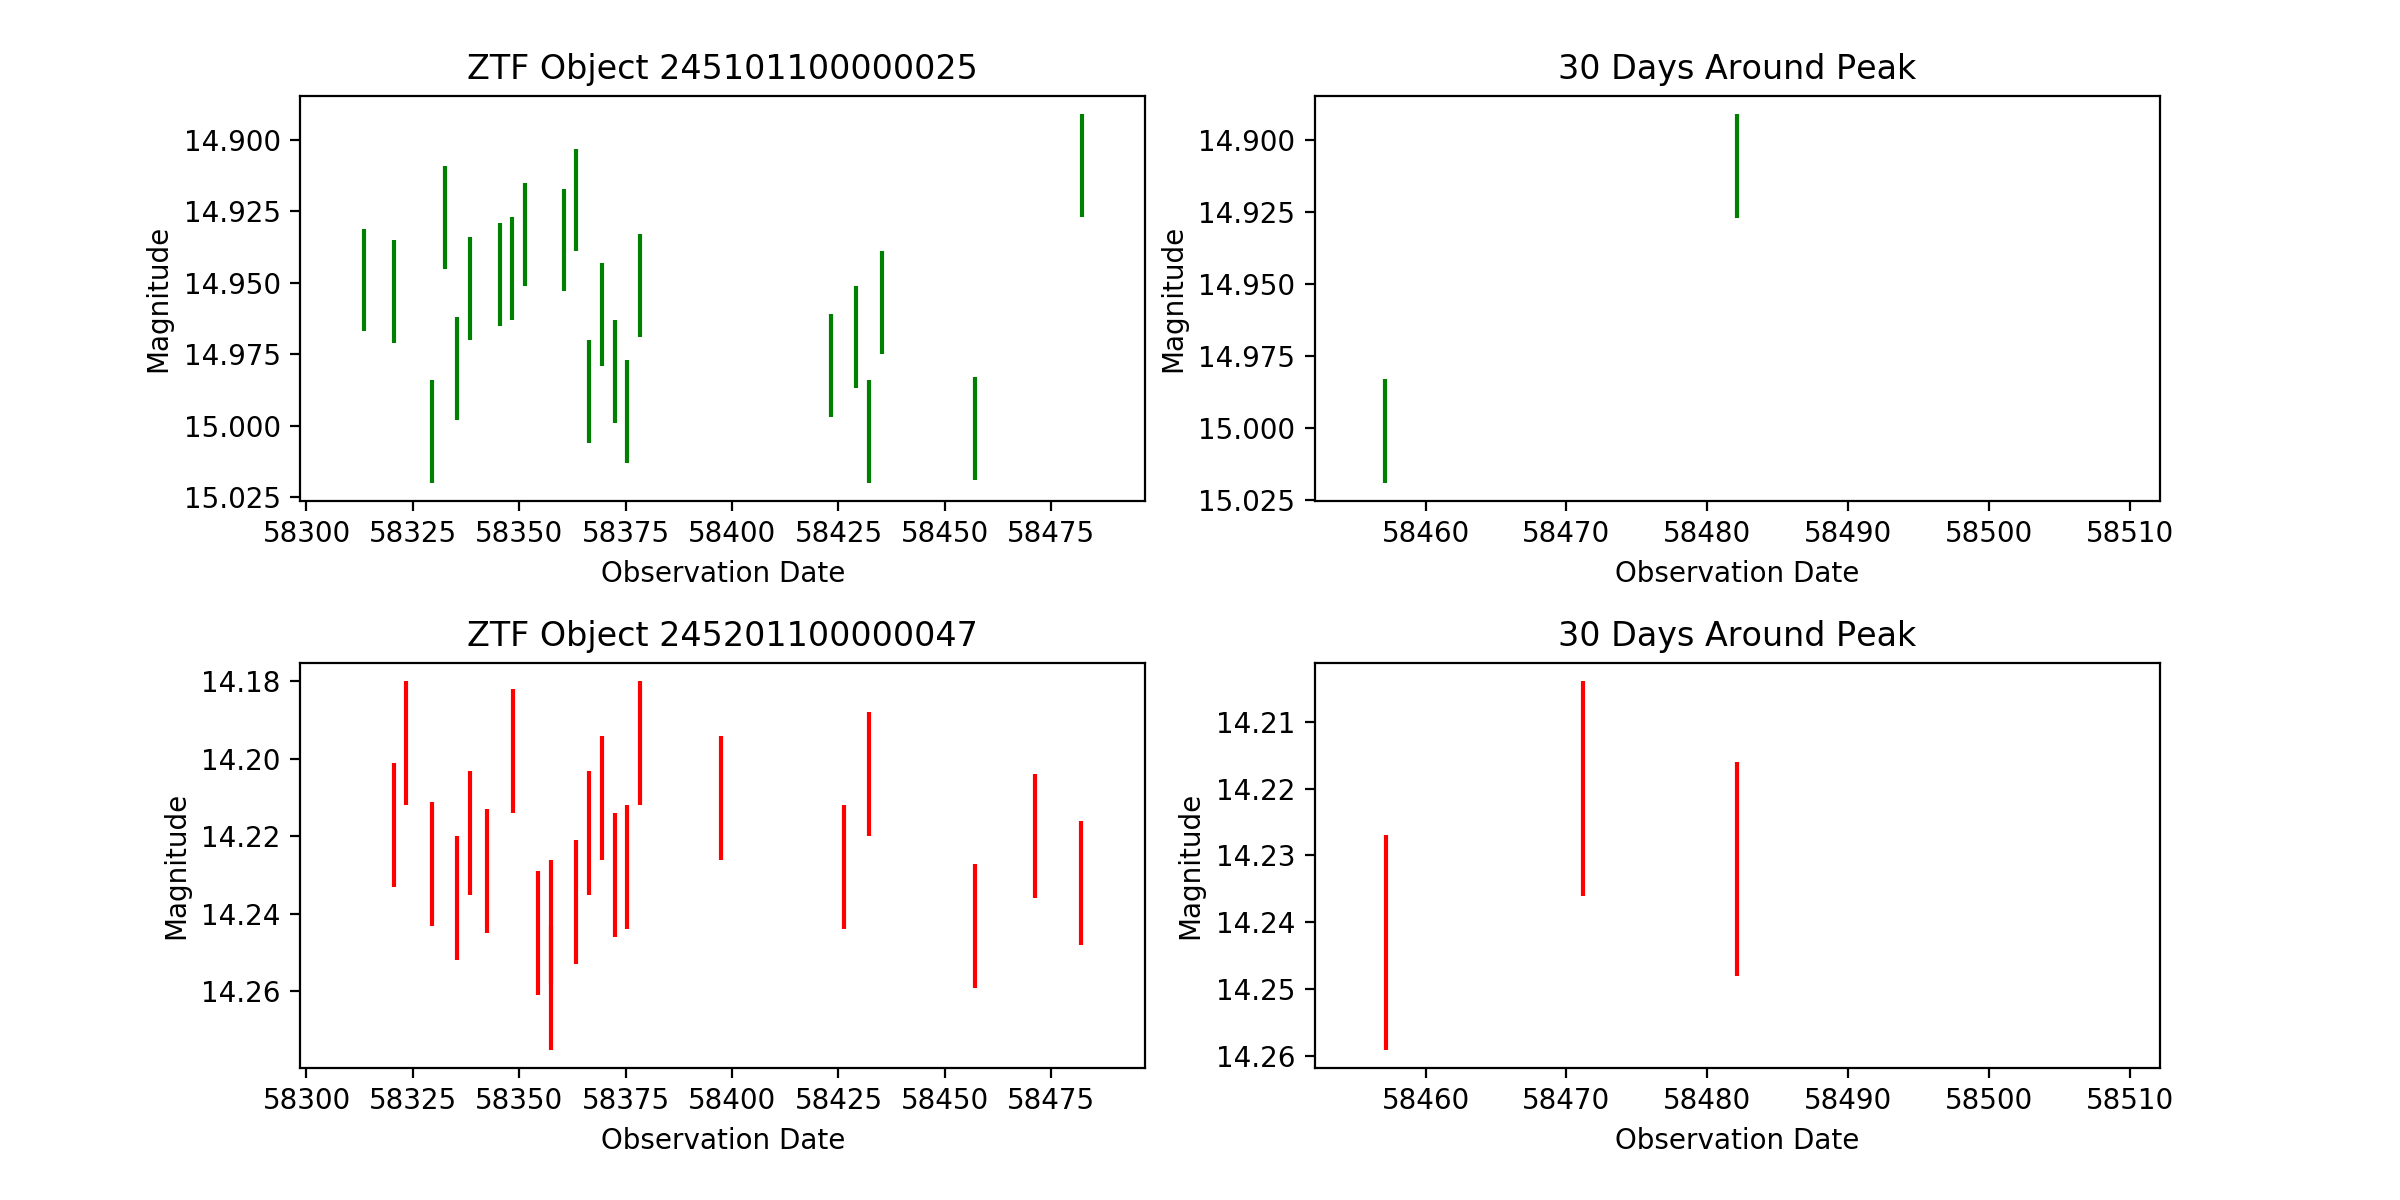
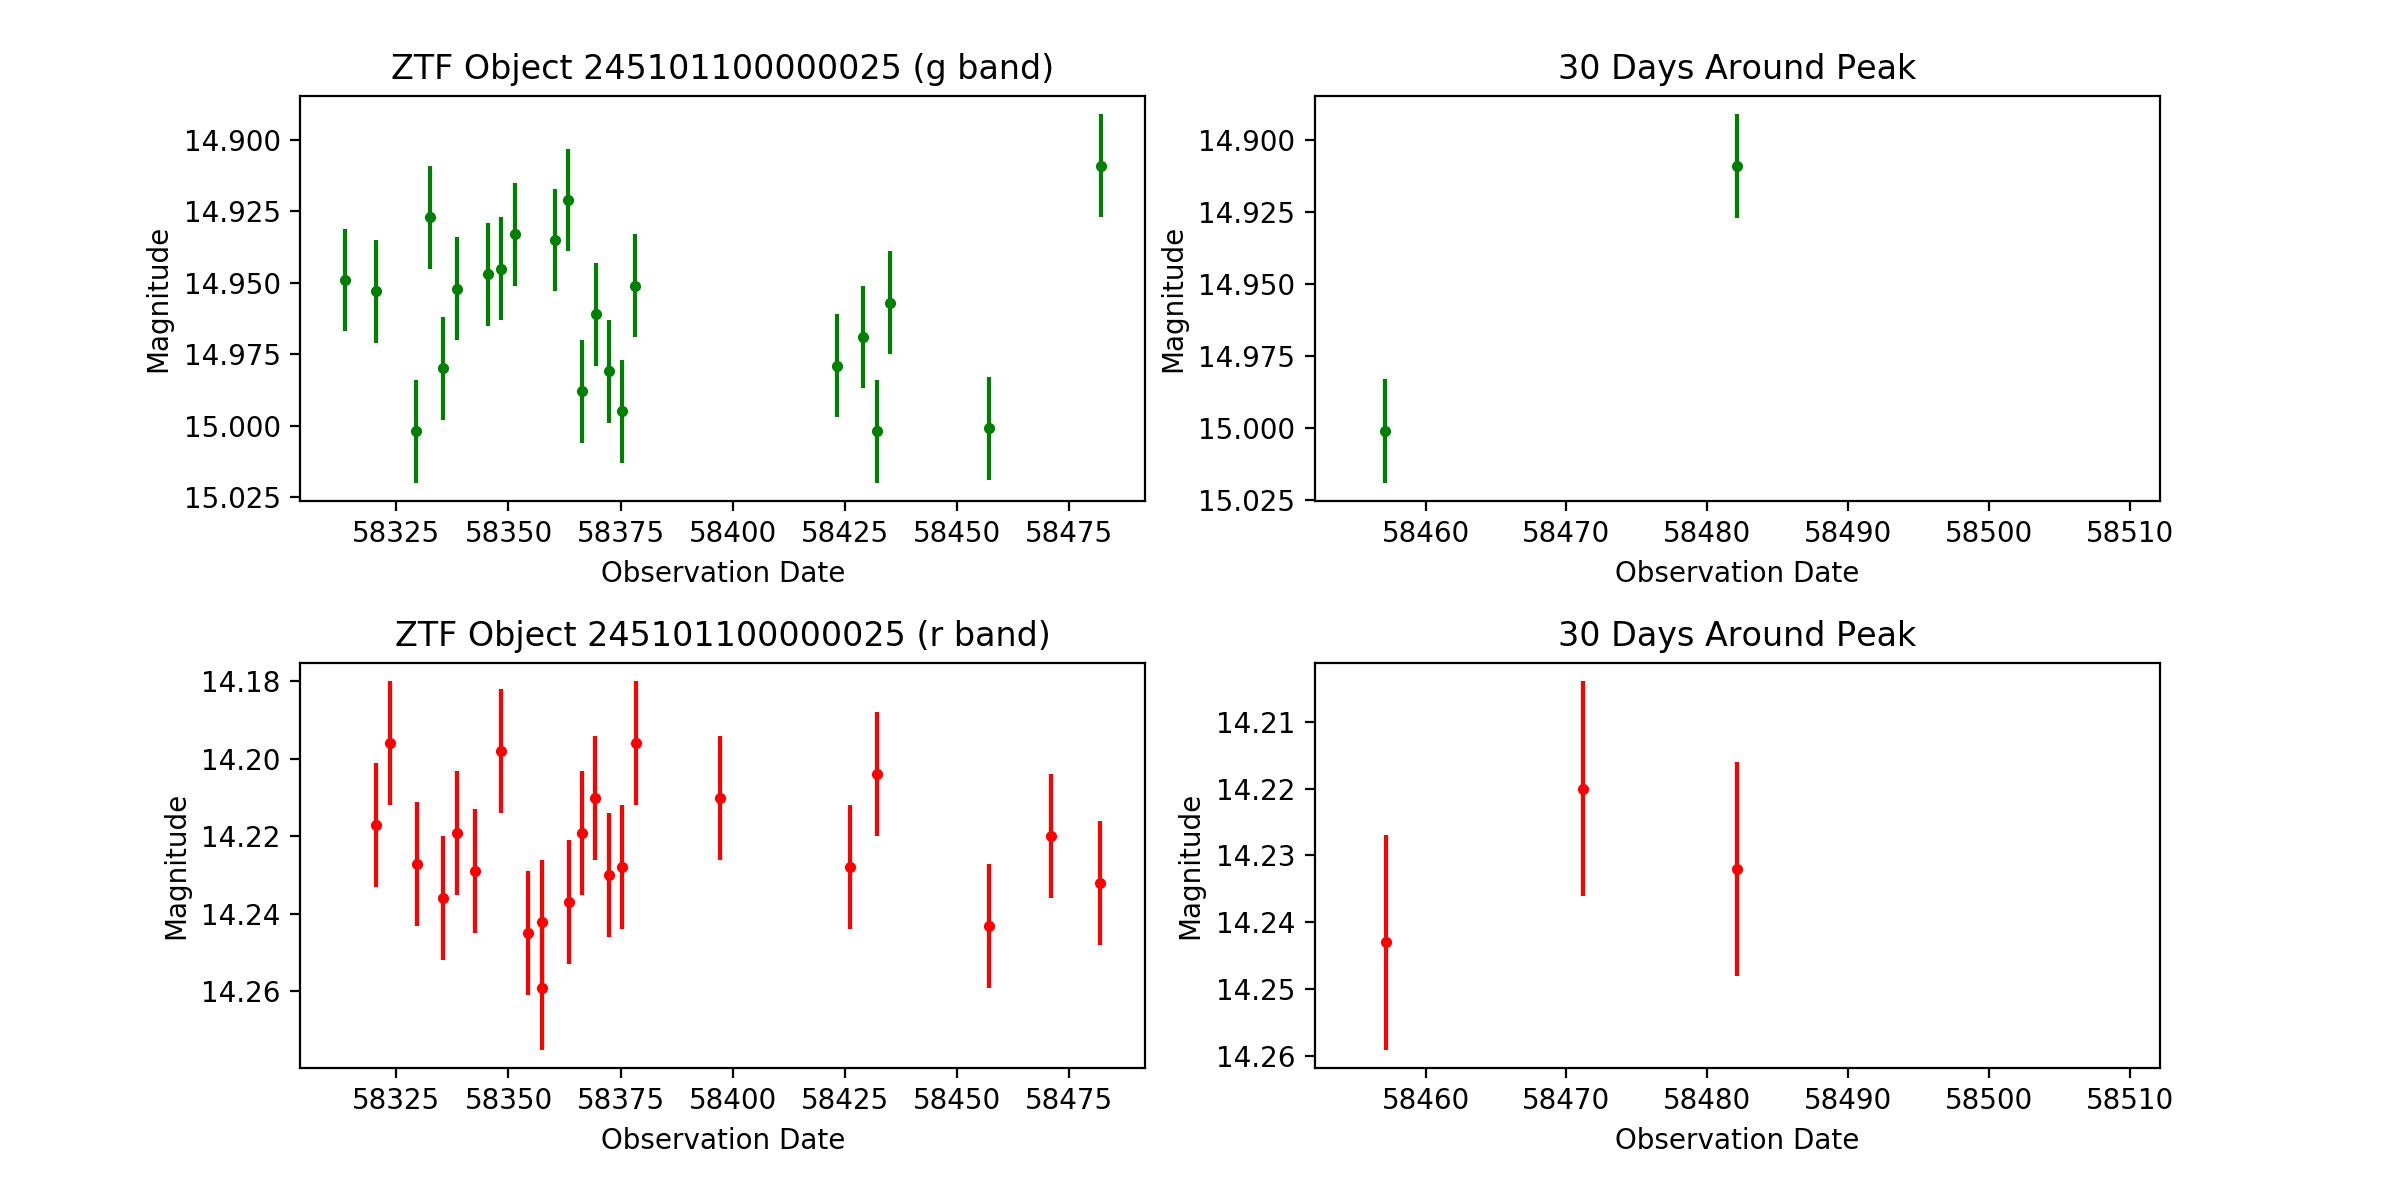
update plotting

diff --git a/zort/object.py b/zort/object.py
@@ -287,15 +287,38 @@ class Object:
         else:
             self.set_sibling(sibling_buffer_position)
 
-    def plot_lightcurve(self):
-        fig, ax = plt.subplots()
-        ax.errorbar(self.lightcurve.hmjd, self.lightcurve.mag,
-                    yerr=self.lightcurve.magerr,
-                    ls='none', color=self.color)
-        ax.invert_yaxis()
+    def plot_lightcurve(self, insert_radius=30):
+        hmjd_min = np.min(self.lightcurve.hmjd) - 10
+        hmjd_max = np.max(self.lightcurve.hmjd) + 10
 
-        title = 'ZTF Object %i (%s band)' % (self.objectid, self.color)
-        fig.suptitle(title)
+        fig, ax = plt.subplots(1, 2, figsize=(12, 4))
+        fig.subplots_adjust(hspace=0.4)
+
+        ax[0].errorbar(self.lightcurve.hmjd, self.lightcurve.mag,
+                       yerr=self.lightcurve.magerr,
+                       ls='none', marker='.', color=self.color)
+        ax[0].invert_yaxis()
+        ax[0].set_xlim(hmjd_min, hmjd_max)
+        ax[0].set_ylabel('Magnitude')
+        ax[0].set_xlabel('Observation Date')
+        ax[0].set_title('ZTF Object %i (%s band)' % (self.objectid,
+                                                     self.color))
+
+        hmjd0 = self.lightcurve.hmjd[np.argmin(self.lightcurve.mag)]
+        hmjd_min_insert = hmjd0 - insert_radius
+        hmjd_max_insert = hmjd0 + insert_radius
+        hmjd_cond = (self.lightcurve.hmjd >= hmjd_min_insert) & (
+                self.lightcurve.hmjd <= hmjd_max_insert)
+
+        ax[1].errorbar(self.lightcurve.hmjd[hmjd_cond],
+                       self.lightcurve.mag[hmjd_cond],
+                       yerr=self.lightcurve.magerr[hmjd_cond],
+                       ls='none', marker='.', color=self.color)
+        ax[1].invert_yaxis()
+        ax[1].set_xlim(hmjd_min_insert, hmjd_max_insert)
+        ax[1].set_ylabel('Magnitude')
+        ax[1].set_xlabel('Observation Date')
+        ax[1].set_title('%i Days Around Peak' % insert_radius)
 
         fname = '%s-%i-lc.png' % (self.filename, self.buffer_position)
         fig.savefig(fname)
@@ -304,8 +327,8 @@ class Object:
         plt.close(fig)
 
     def plot_lightcurves(self, insert_radius=30):
-        hmjd_min = np.min(self.lightcurve.hmjd) - 15
-        hmjd_max = np.max(self.lightcurve.hmjd) + 15
+        hmjd_min = np.min(self.lightcurve.hmjd) - 10
+        hmjd_max = np.max(self.lightcurve.hmjd) + 10
 
         fig, ax = plt.subplots(2, 2, figsize=(12, 6))
         fig.subplots_adjust(top=0.92)
@@ -313,12 +336,13 @@ class Object:
 
         ax[0][0].errorbar(self.lightcurve.hmjd, self.lightcurve.mag,
                           yerr=self.lightcurve.magerr,
-                          ls='none', color=self.color)
+                          ls='none', marker='.', color=self.color)
         ax[0][0].invert_yaxis()
         ax[0][0].set_xlim(hmjd_min, hmjd_max)
         ax[0][0].set_ylabel('Magnitude')
         ax[0][0].set_xlabel('Observation Date')
-        ax[0][0].set_title('ZTF Object %i' % self.objectid)
+        ax[0][0].set_title('ZTF Object %i (%s band)' % (self.objectid,
+                                                        self.color))
 
         hmjd0 = self.lightcurve.hmjd[np.argmin(self.lightcurve.mag)]
         hmjd_min_insert = hmjd0 - insert_radius
@@ -329,7 +353,7 @@ class Object:
         ax[0][1].errorbar(self.lightcurve.hmjd[hmjd_cond],
                           self.lightcurve.mag[hmjd_cond],
                           yerr=self.lightcurve.magerr[hmjd_cond],
-                          ls='none', color=self.color)
+                          ls='none', marker='.', color=self.color)
         ax[0][1].invert_yaxis()
         ax[0][1].set_xlim(hmjd_min_insert, hmjd_max_insert)
         ax[0][1].set_ylabel('Magnitude')
@@ -347,12 +371,15 @@ class Object:
                               self.sibling.lightcurve.mag,
                               yerr=self.sibling.lightcurve.magerr,
                               ls='none',
+                              marker='.',
                               color=self.sibling.color)
             ax[1][0].invert_yaxis()
             ax[1][0].set_xlim(hmjd_min, hmjd_max)
             ax[1][0].set_ylabel('Magnitude')
             ax[1][0].set_xlabel('Observation Date')
-            ax[1][0].set_title('ZTF Object %i' % self.sibling.objectid)
+            ax[1][0].set_title('ZTF Object %i '
+                               '(%s band)' % (self.objectid,
+                                              self.sibling.color))
 
             hmjd_cond = (self.sibling.lightcurve.hmjd >= hmjd_min_insert) & \
                         (self.sibling.lightcurve.hmjd <= hmjd_max_insert)
@@ -361,6 +388,7 @@ class Object:
                               self.sibling.lightcurve.mag[hmjd_cond],
                               yerr=self.sibling.lightcurve.magerr[hmjd_cond],
                               ls='none',
+                              marker='.',
                               color=self.sibling.color)
             ax[1][1].invert_yaxis()
             ax[1][1].set_xlim(hmjd_min_insert, hmjd_max_insert)
